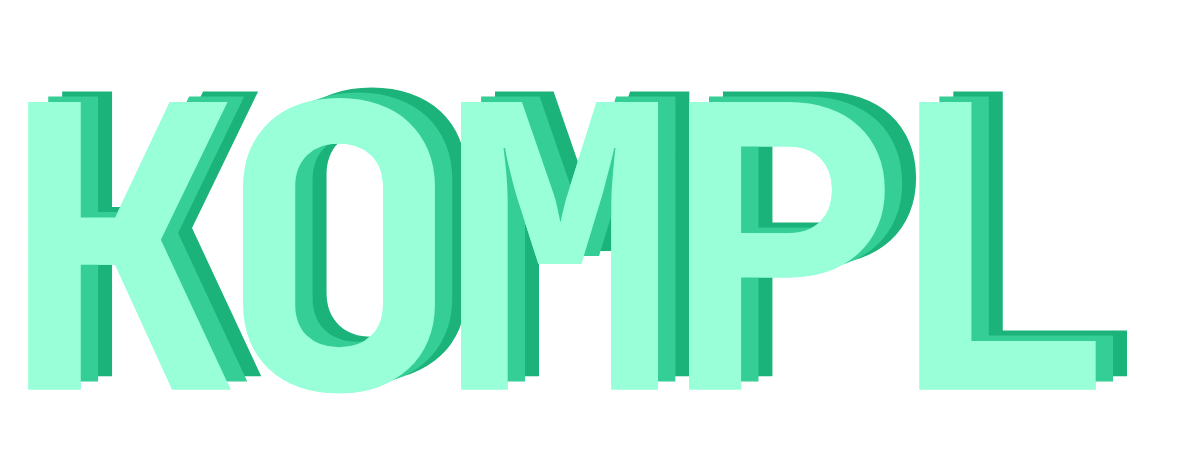
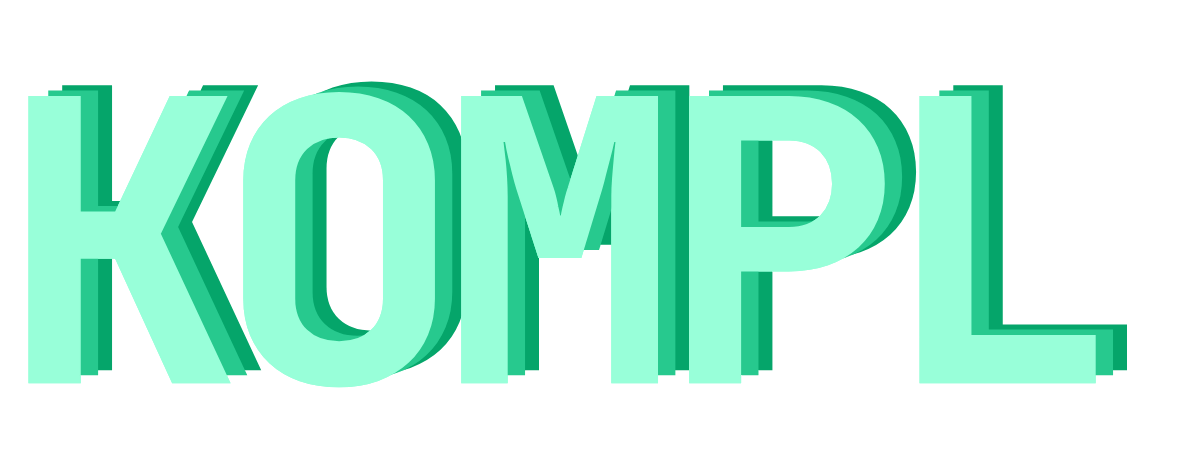
refactor(wiki+chat): widen reading column, exclude saved-links from related, guard chat meta-query
Wiki UI polish:
- globals.css + wiki/[page_id]/page.tsx widen article max-width 72ch → 91ch
  for a denser reading column that matches the wider sidebars below.
- WikiSidebar.tsx widens left nav 288 → 349 so deep category nesting
  doesn't wrap.
- wiki/[page_id]/page.tsx widens right aside 242 → 293 to match.
- related/route.ts excludes SAVED_LINKS_PAGE_ID from "You might also read" —
  it's a system page of unresolved URLs, not a content page.
- wiki/[page_id]/page.tsx hides Contradicting/Related panels on the
  saved-links page for the same reason.
- public/kompl.png: logo asset refresh.

Chat meta-query guard:
- chat/route.ts: exports detectMetaQuery and short-circuits any question
  starting with a content-request verb (summari[sz]e, describe, list, show,
  tell, explain, give, provide, outline, recap). Without the guard,
  "Summarise my most recent sources" matched the "most recent source"
  regex and returned a bare timestamp, bypassing retrieval + LLM synthesis.
- chat-meta-query.test.ts: 3 regression cases — content-verb fall-through,
  bare meta questions still firing, "how many" + stats questions still firing.

diff --git a/app/src/__tests__/chat-meta-query.test.ts b/app/src/__tests__/chat-meta-query.test.ts
@@ -1,0 +1,54 @@
+/**
+ * detectMetaQuery — false-positive regression guard.
+ *
+ * A content-request like "summarise my most recent sources" used to match the
+ * "most recent source" meta-query regex and short-circuit to a timestamp
+ * answer, bypassing retrieval + LLM synthesis entirely. Content verbs up
+ * front must fall through to retrieval; bare meta questions must still fire.
+ */
+
+import { describe, it, expect, afterEach } from 'vitest';
+import { detectMetaQuery } from '../app/api/chat/route';
+import { setupTestDb, type TestDbHandle } from './helpers/test-db';
+
+let handle: TestDbHandle | null = null;
+
+afterEach(() => {
+  handle?.cleanup();
+  handle = null;
+});
+
+describe('detectMetaQuery', () => {
+  function withDb() {
+    handle = setupTestDb();
+  }
+
+  it('returns null for content-request verbs that mention recent sources', () => {
+    const contentRequests = [
+      'Summarise my most recent sources',
+      'summarize my latest articles',
+      'Describe my newest source',
+      'tell me about my latest source',
+      'list my most recent sources',
+      'show my recent updates',
+      'explain the latest source',
+      'give me a recap of my newest articles',
+    ];
+    for (const q of contentRequests) {
+      expect(detectMetaQuery(q), `should fall through: ${q}`).toBeNull();
+    }
+  });
+
+  it('still matches bare meta questions about the last ingest', () => {
+    withDb();
+    expect(detectMetaQuery('when was the last source ingested')).not.toBeNull();
+    expect(detectMetaQuery('what was the latest source added')).not.toBeNull();
+    expect(detectMetaQuery('most recent source?')).not.toBeNull();
+  });
+
+  it('still matches bare "how many" and stats questions', () => {
+    withDb();
+    expect(detectMetaQuery('how many sources do I have')).not.toBeNull();
+    expect(detectMetaQuery('wiki stats')).not.toBeNull();
+  });
+});

diff --git a/app/src/app/api/chat/route.ts b/app/src/app/api/chat/route.ts
@@ -28,8 +28,17 @@ const NO_CONTENT_ANSWER =
  * DB-backed answer, bypassing LLM retrieval entirely.
  * Returns null if the question is not a meta query.
  */
-function detectMetaQuery(question: string): string | null {
-  const q = question.toLowerCase();
+export function detectMetaQuery(question: string): string | null {
+  const q = question.toLowerCase().trim();
+
+  // Content-request verbs (summarise/describe/list/show/tell/explain/give) up
+  // front mean the user wants source *content*, not DB metadata. Bail out so
+  // retrieval + synthesis handle it — otherwise "summarise my most recent
+  // sources" matches the "most recent source" regex and short-circuits to a
+  // timestamp.
+  if (/^(please\s+)?(summari[sz]e|describe|list|show|tell|explain|give|provide|outline|recap)\b/.test(q)) {
+    return null;
+  }
 
   if (/how many (sources|articles|documents|files|things)/.test(q)) {
     const stats = getWikiStats();

diff --git a/app/src/app/wiki/[page_id]/page.tsx b/app/src/app/wiki/[page_id]/page.tsx
@@ -331,7 +331,7 @@ export default async function WikiPageDetail({ params }: PageProps) {
               </span>
             </div>
             {page.summary && (
-              <p style={{ margin: '0 0 0.75rem', color: 'var(--fg-muted)', lineHeight: 1.7, fontSize: 16, maxWidth: '72ch' }}>
+              <p style={{ margin: '0 0 0.75rem', color: 'var(--fg-muted)', lineHeight: 1.7, fontSize: 16, maxWidth: '91ch' }}>
                 {page.summary}
               </p>
             )}
@@ -424,7 +424,7 @@ export default async function WikiPageDetail({ params }: PageProps) {
       {/* Right: TOC + Backlinks */}
       <aside
         style={{
-          width: 242,
+          width: 293,
           flexShrink: 0,
           padding: '2rem 1rem',
           borderLeft: '1px solid var(--border)',
@@ -503,8 +503,12 @@ export default async function WikiPageDetail({ params }: PageProps) {
           </section>
         )}
 
-        <ContradictingSourcesPanel pageId={page_id} />
-        <RelatedPagesPanel pageId={page_id} />
+        {page_id !== SAVED_LINKS_PAGE_ID && (
+          <>
+            <ContradictingSourcesPanel pageId={page_id} />
+            <RelatedPagesPanel pageId={page_id} />
+          </>
+        )}
       </aside>
     </div>
   );

diff --git a/app/src/app/api/wiki/[page_id]/related/route.ts b/app/src/app/api/wiki/[page_id]/related/route.ts
@@ -16,6 +16,7 @@ export const dynamic = 'force-dynamic';
 
 const NLP_SERVICE_URL = process.env.NLP_SERVICE_URL ?? 'http://nlp-service:8000';
 const MAX_RESULTS = 5;
+const SAVED_LINKS_PAGE_ID = 'saved-links';
 
 interface RelatedPageItem {
   page_id: string;
@@ -77,10 +78,13 @@ export async function GET(_request: Request, { params }: RouteContext): Promise<
     return NextResponse.json({ items: [], count: 0, enabled: true });
   }
 
-  // Exclude self, resolve titles, take top MAX_RESULTS
+  // Exclude self, resolve titles, take top MAX_RESULTS.
+  // saved-links is a system page (user-curated unresolved URLs) — not content,
+  // so it never belongs in "You might also read".
   const items: RelatedPageItem[] = [];
   for (const match of vectorMatches) {
     if (match.page_id === page_id) continue;
+    if (match.page_id === SAVED_LINKS_PAGE_ID) continue;
     const related = getPage(match.page_id);
     if (!related) continue;
     items.push({ page_id: match.page_id, title: related.title, page_type: related.page_type });

diff --git a/app/src/app/globals.css b/app/src/app/globals.css
@@ -388,13 +388,13 @@ article h4 {
 }
 article p {
   line-height: 1.8;
-  max-width: 72ch;
+  max-width: 91ch;
   margin-top: 0;
   margin-bottom: 1.1em;
 }
 article li {
   line-height: 1.8;
-  max-width: 72ch;
+  max-width: 91ch;
 }
 article code {
   font-family: var(--font-mono, ui-monospace, Consolas, monospace);

diff --git a/app/src/components/WikiSidebar.tsx b/app/src/components/WikiSidebar.tsx
@@ -87,7 +87,7 @@ export default function WikiSidebar({ initialGroups, activePageId, activeCategor
   return (
     <aside
       style={{
-        width: 288,
+        width: 349,
         flexShrink: 0,
         borderRight: '1px solid var(--border)',
         padding: '1.5rem 1rem',